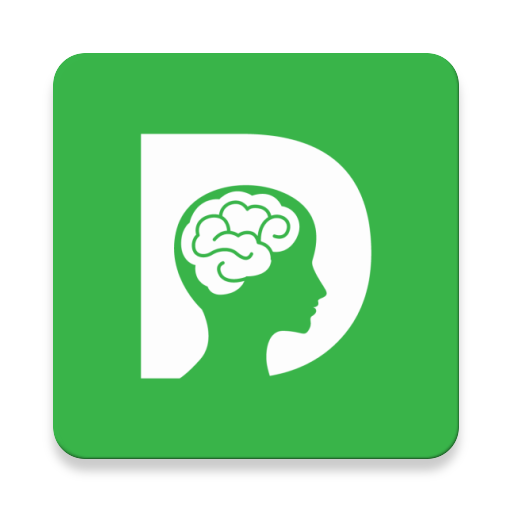
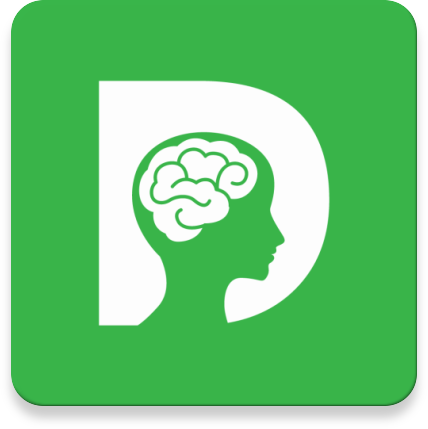
Add info about my personal blog

diff --git a/index.html b/index.html
@@ -46,7 +46,7 @@
         }
 
         div.block-container a:visited {
-            color: #333388;
+            color: #eeeeee;
         }
 
         div.block-container>*:nth-child(4n+1) {
@@ -72,6 +72,7 @@
         /* Image (logo) of the block */
         div.block-container>*>img:first-child {
             height: 10em;
+            padding: 1em;
             float: left;
         }
     </style>
@@ -158,25 +159,13 @@
             </table>
         </a>
         <a href="http://katarina.sheremet.ch">
-            <h3>Блог путешествий</h3>
+            <img src="images/zurich.jpg" alt="Zurich image"></img>
+            <h3>Travel blog</h3>
             <p>
-                Proin massa purus, vestibulum sit amet lorem eu, iaculis
-                sollicitudin diam. Nam dapibus est quis
-                venenatis
-                facilisis. Mauris nec ultrices tortor, in varius dui. Ut ac sem
-                nec dolor vehicula lobortis sed quis
-                tortor. Donec id malesuada nulla. Pellentesque habitant morbi
-                tristique senectus et netus et malesuada
-                fames ac turpis egestas. Ut faucibus vehicula turpis. Nulla a
-                dolor ornare, bibendum dolor non,
-                consequat
-                neque. Vivamus sollicitudin id leo ac ultricies. Pellentesque
-                iaculis et quam sed mattis. Proin ligula
-                diam, eleifend quis orci eu, luctus vestibulum ex. Aliquam erat
-                volutpat. Etiam commodo egestas velit,
-                quis
-                pretium odio euismod vel. Fusce nibh turpis, semper vel
-                malesuada non, condimentum volutpat nisi.
+                This is my personal travel blog where I share information about
+                cities, countries, exhibitions, etc. Sometimes I write about
+                projects that I'm working on. If you are curious have a look!
+                By the way, it is in the Russian language.
             </p>
         </a>
         <a>
